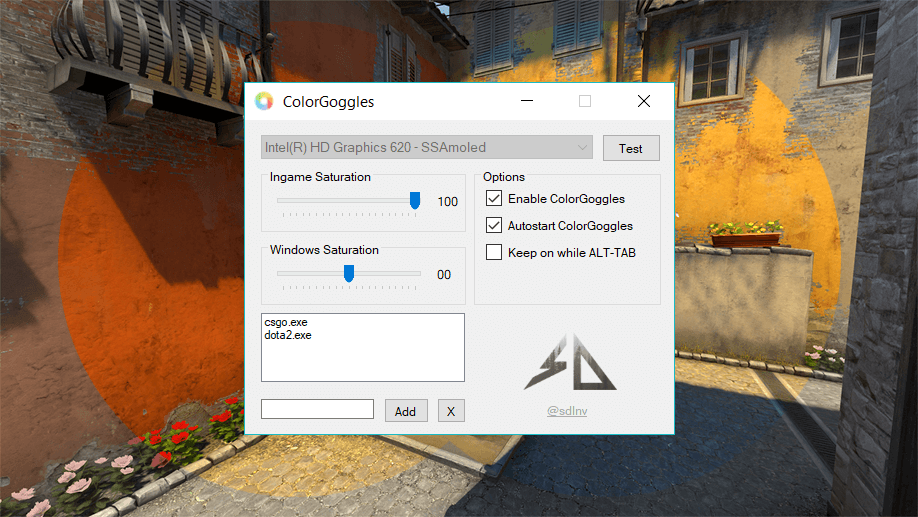
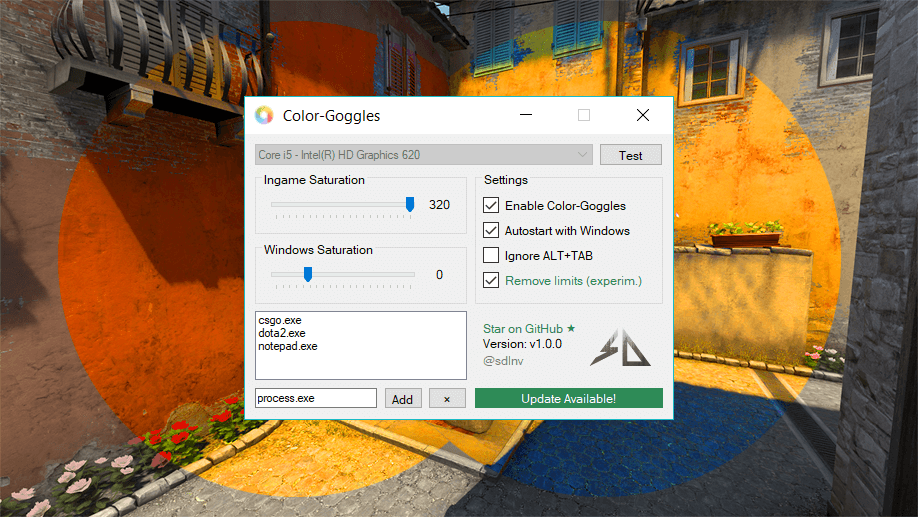
Update Color-Goggles to latest release (v1.0.0)

diff --git a/content/soft/ColorGoggles.md b/content/soft/ColorGoggles.md
@@ -3,7 +3,7 @@ title: Color-Goggles
 date: 2017-12-24
 author: Daniele Salvagni
 collection: software
-excerpt: ColorGoggles is an extremely lightweight application (43kb) that automatically manages your digital saturation when playing games to enhance visibility. This is an alternative to VibranceGUI for people with Intel HD Graphics or dual-graphics laptops.
+excerpt: ColorGoggles is an extremely lightweight application that automatically manages your digital saturation when playing games to enhance visibility. This is an alternative to VibranceGUI for people with Intel HD Graphics or dual-graphics laptops.
 layout: page.hbs
 draft: false
 ---
@@ -12,11 +12,11 @@ draft: false
 
 ![ColorGoggles](/assets/img/content/colorgoggles.png)
 
-ColorGoggles is an extremely lightweight application (43kb) that automatically manages your digital saturation when playing games to enhance visibility.
+ColorGoggles is an extremely lightweight application that automatically manages your digital saturation (**now up to 320%**) when playing games to enhance visibility.
 
 This is an alternative to VibranceGUI for people with Intel HD Graphics or dual-graphics laptops. The application is absolutely VAC safe, many professional players are known to tweak their digital saturation.
 
-Intel did not release any public APIs, I had to make this tool by reverse engineering the Intel Control Panel and some related driver libraries, so contact me if you get any unexpected behavior. At the moment the code is coming straight out of the experimenting phase but as long as your system is supported the application will be stable and functional.
+Intel did not release any public APIs, I had to make this tool by reverse engineering the Intel Control Panel and some related driver libraries, so contact me if you get any unexpected behavior.
 
 ## Installation
 
@@ -26,7 +26,7 @@ Intel did not release any public APIs, I had to make this tool by reverse engine
 
 You need to do this because there are multiple versions of `igfxDHLib.dll` depending on your device (they all have the same version number but are actually different), so I cannot embed the code in the assembly nor distribute it with my DLL as it wouldn't work in many cases.
 
-<br><div align="center"><a class="button" align="center" target="_blank" href="https://github.com/daniele-salvagni/color-goggles/releases/download/v0.2.1-beta/ColorGoggles-v0.2.1.zip">Download ColorGoggles (43kb)</a></div>
+<br><div align="center"><a class="button" align="center" target="_blank" href="https://github.com/daniele-salvagni/color-goggles/releases/download/v0.2.1-beta/ColorGoggles-v0.2.1.zip">Download ColorGoggles (v1.0.0)</a></div>
 
 
 <br>
